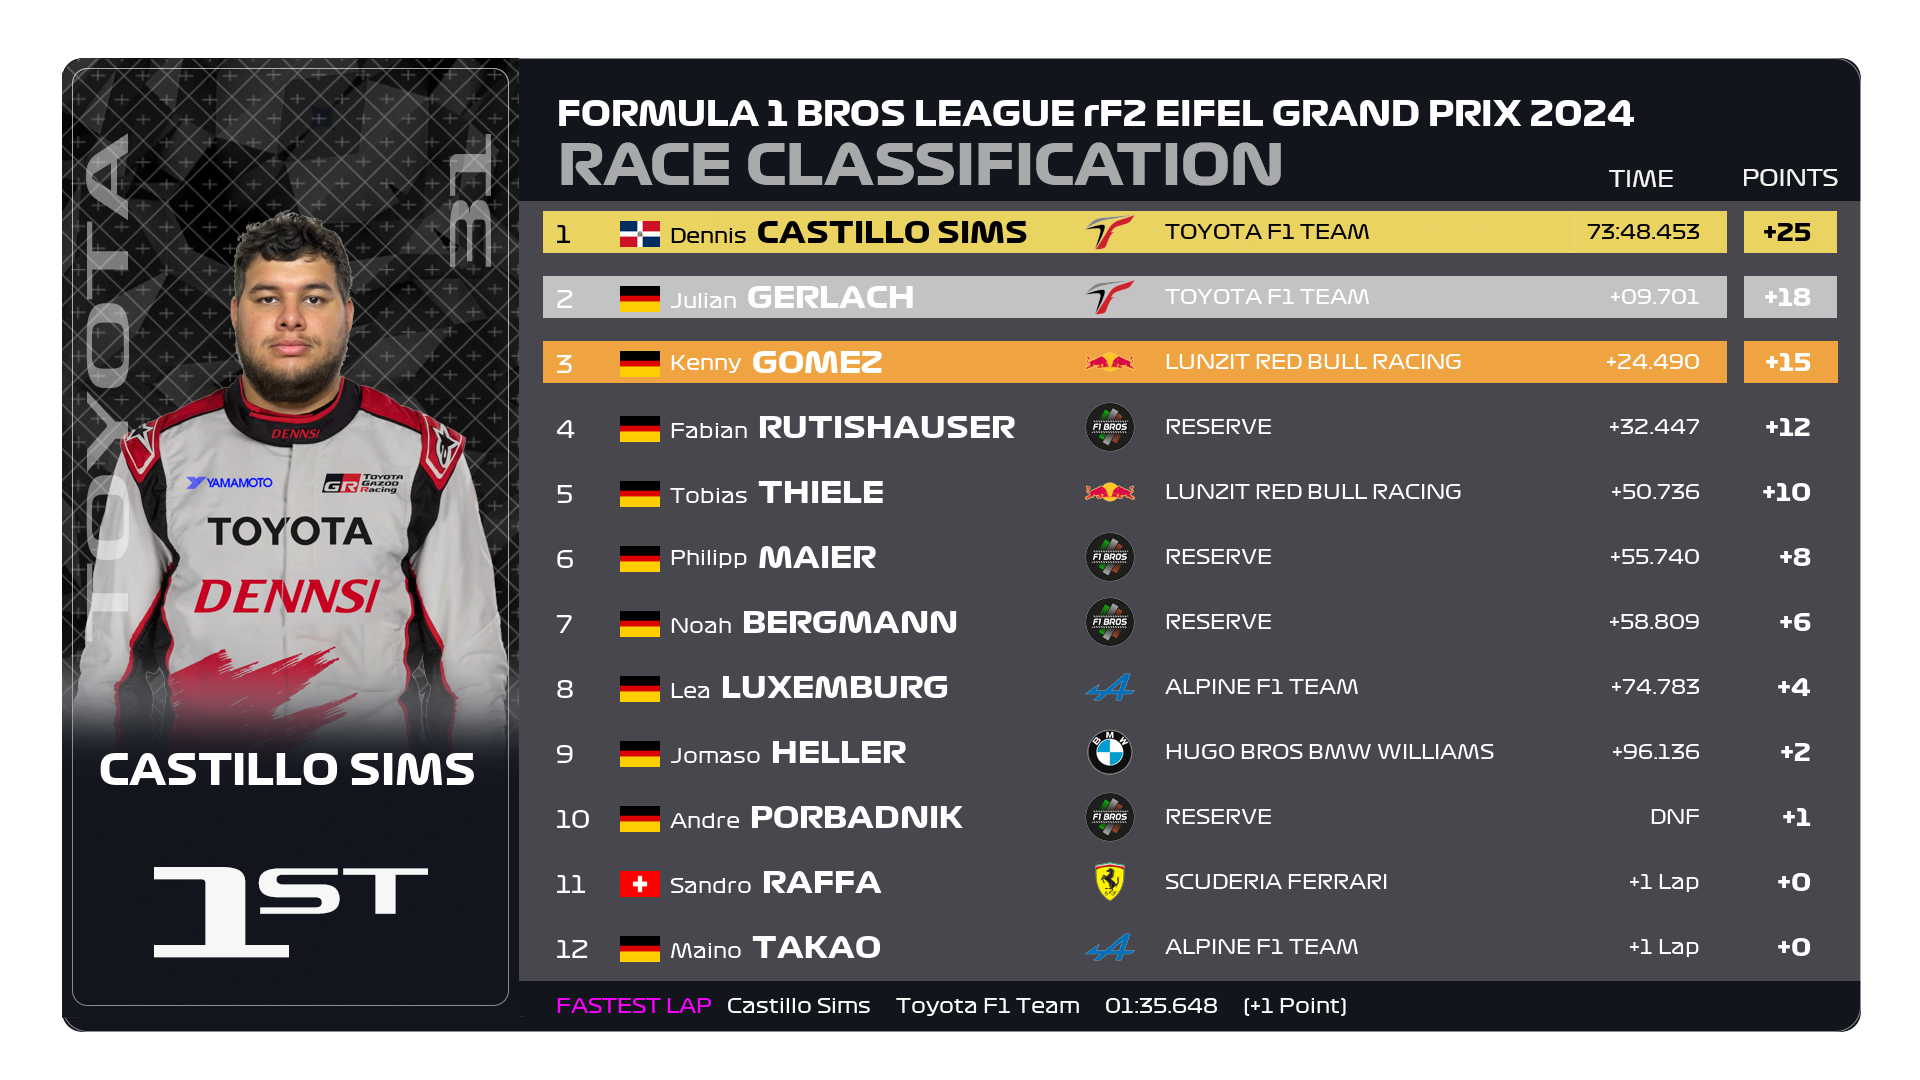
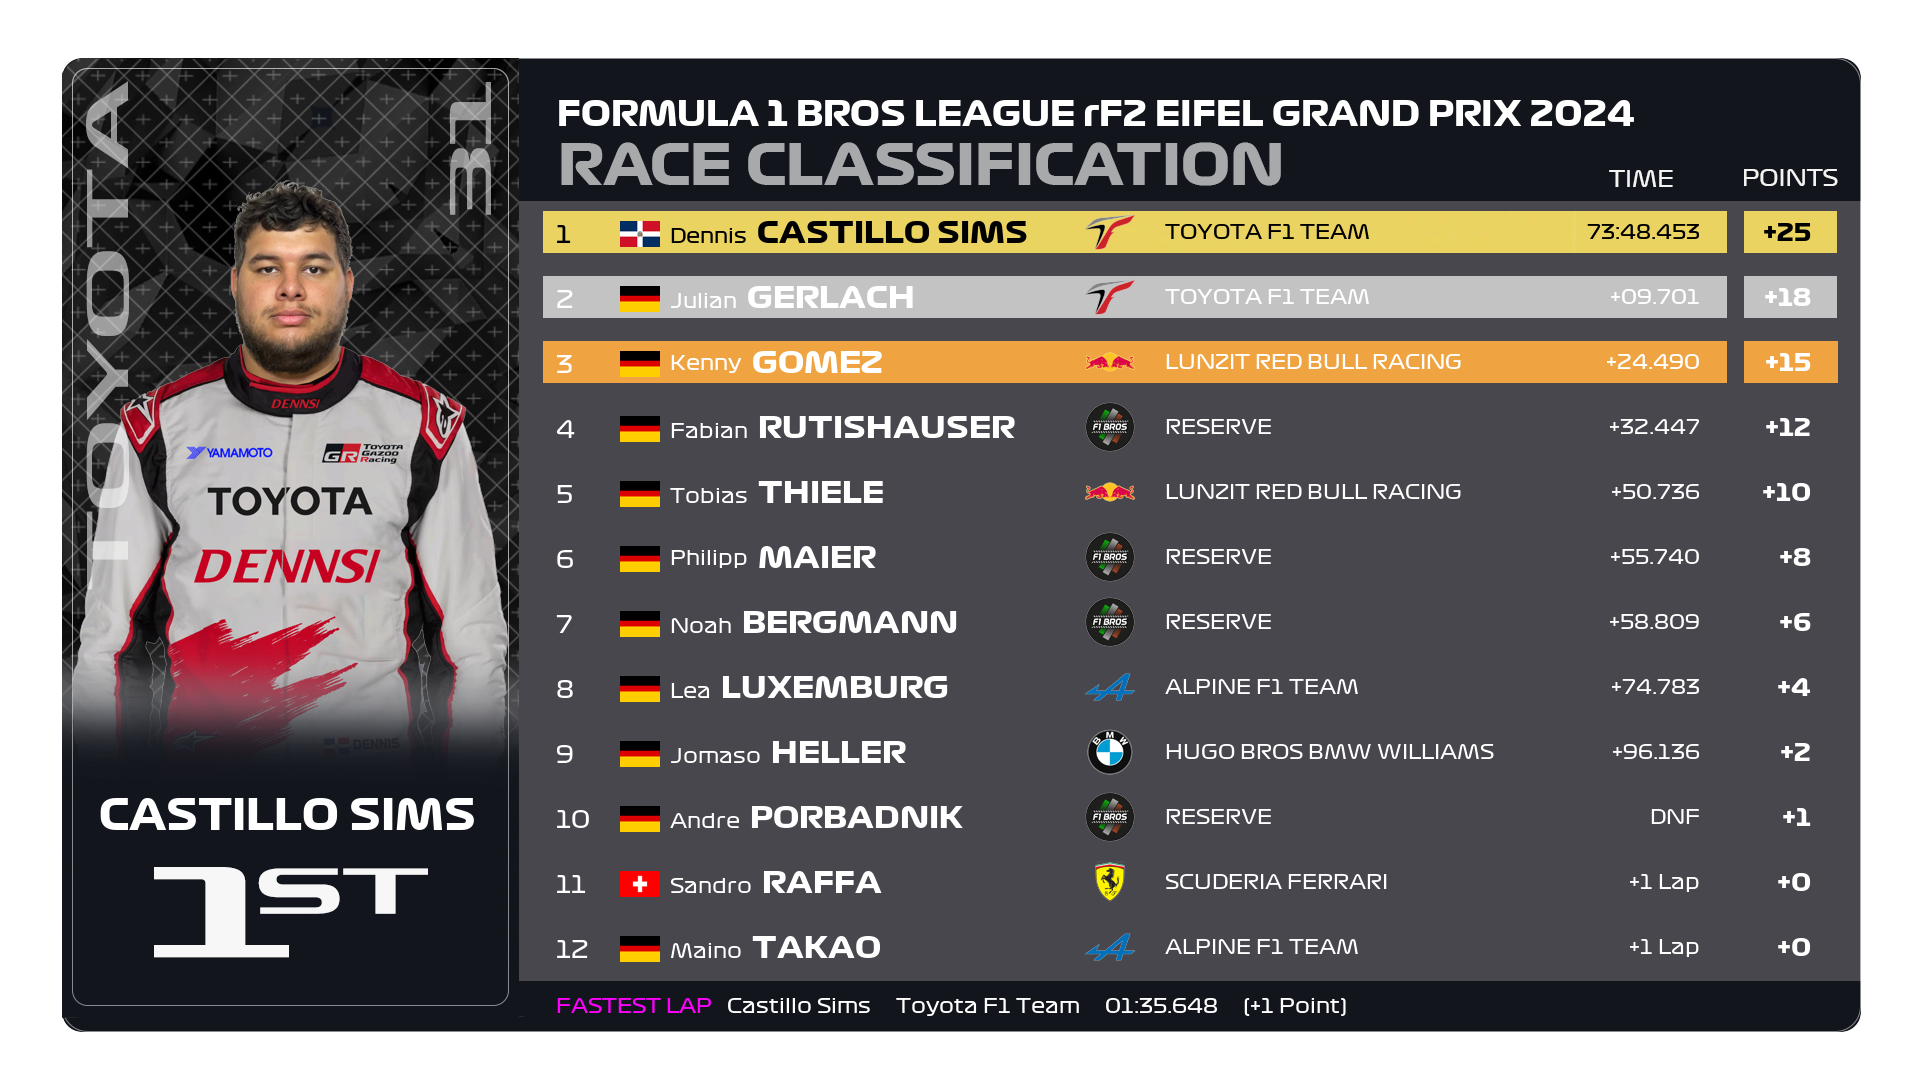
Anpassungen Winner links positionen

Changed region(s): [[0.0312, 0.1528, 0.2812, 0.7944], [0.2188, 0.0917, 0.2812, 0.2444], [0.0312, 0.0917, 0.0625, 0.2139]]

diff --git a/main.py b/main.py
@@ -78,15 +78,15 @@ team_logo_alignment = (1085,207)
 team_logo_scaled = (50,50)
 team_name_allignment = 1165
 race_time_allignment = 1700
-overall_position = (-50, 130)
+overall_position = (-50, 100)
 
 points_pos_x = 1811
 position_size = 24
 
-winner_team_position = (86, 132)
-winner_number_position = (450, 132)
+winner_team_position = (86, 80)
+winner_number_position = (450, 80)
 winner_team_size = 55
-winner_name_pos = (288, 770)
+winner_name_pos = (288, 815)
 winner_name_size = 42
 winner = Winner([])
 fastest_lap_driver = fastest_lap()
@@ -137,7 +137,7 @@ def create_rennergebnis_page_1(data, filename="rennergebnisse_seite1.png"):
     team_box = draw.textbbox((-100, -100), winner.winning_team, font=winner_team_font)
     temp_img = Image.new("RGBA", (team_box[2] - team_box[0], team_box[3] - team_box[1]), (0, 0, 0, 0))  # Big enough for horizontal text
     temp_draw = ImageDraw.Draw(temp_img)
-    temp_draw.text((0, 0), winner.winning_team, font=winner_team_font, fill=(255, 255, 255, 76), anchor="lt")
+    temp_draw.text((0, 0), winner.winning_team, font=winner_team_font, fill=(255, 255, 255, 100), anchor="lt")
 
     # Rotate the temporary image 90 degrees counter-clockwise
     rotated_text = temp_img.rotate(90, expand=True)
@@ -147,7 +147,7 @@ def create_rennergebnis_page_1(data, filename="rennergebnisse_seite1.png"):
     team_box = draw.textbbox((-100, -100), winner.Nummer, font=winner_team_font)
     temp_img = Image.new("RGBA", (team_box[2] - team_box[0], team_box[3] - team_box[1]), (0, 0, 0, 0))  # Big enough for horizontal text
     temp_draw = ImageDraw.Draw(temp_img)
-    temp_draw.text((0, 0), winner.Nummer, font=winner_team_font, fill=(255, 255, 255, 76), anchor="lt")
+    temp_draw.text((0, 0), winner.Nummer, font=winner_team_font, fill=(255, 255, 255, 100), anchor="lt")
 
     # Rotate the temporary image 90 degrees counter-clockwise
     rotated_text = temp_img.rotate(90, expand=True)
@@ -296,7 +296,7 @@ def create_rennergebnis_page_2(data, filename="rennergebnisse_seite2.png"):
     team_box = draw.textbbox((-100, -100), winner.winning_team, font=winner_team_font)
     temp_img = Image.new("RGBA", (team_box[2] - team_box[0], team_box[3] - team_box[1]), (0, 0, 0, 0))  # Big enough for horizontal text
     temp_draw = ImageDraw.Draw(temp_img)
-    temp_draw.text((0, 0), winner.winning_team, font=winner_team_font, fill=(255, 255, 255, 76), anchor="lt")
+    temp_draw.text((0, 0), winner.winning_team, font=winner_team_font, fill=(255, 255, 255, 100), anchor="lt")
 
     # Rotate the temporary image 90 degrees counter-clockwise
     rotated_text = temp_img.rotate(90, expand=True)
@@ -306,7 +306,7 @@ def create_rennergebnis_page_2(data, filename="rennergebnisse_seite2.png"):
     team_box = draw.textbbox((-100, -100), winner.Nummer, font=winner_team_font)
     temp_img = Image.new("RGBA", (team_box[2] - team_box[0], team_box[3] - team_box[1]), (0, 0, 0, 0))  # Big enough for horizontal text
     temp_draw = ImageDraw.Draw(temp_img)
-    temp_draw.text((0, 0), winner.Nummer, font=winner_team_font, fill=(255, 255, 255, 76), anchor="lt")
+    temp_draw.text((0, 0), winner.Nummer, font=winner_team_font, fill=(255, 255, 255, 100), anchor="lt")
 
     # Rotate the temporary image 90 degrees counter-clockwise
     rotated_text = temp_img.rotate(90, expand=True)
